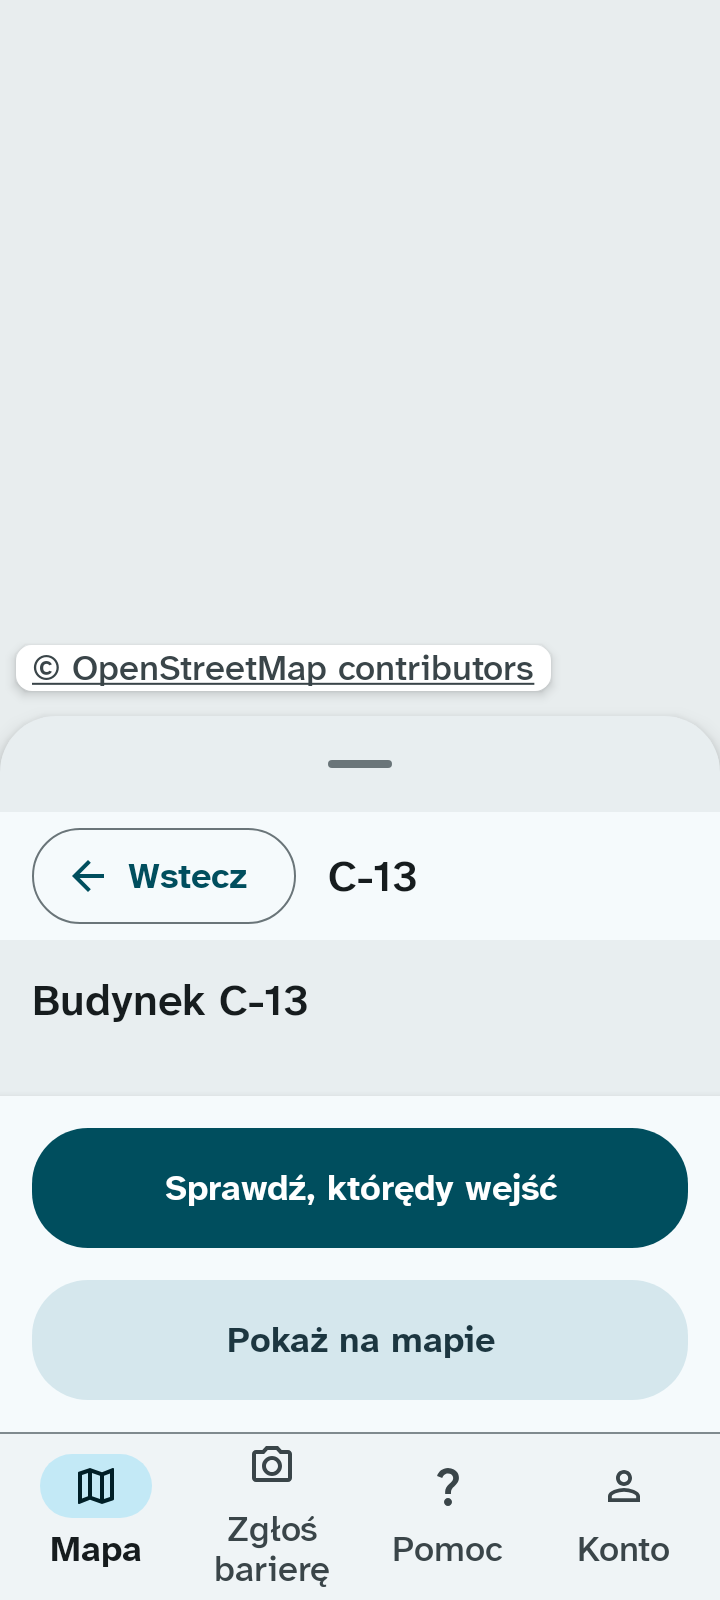
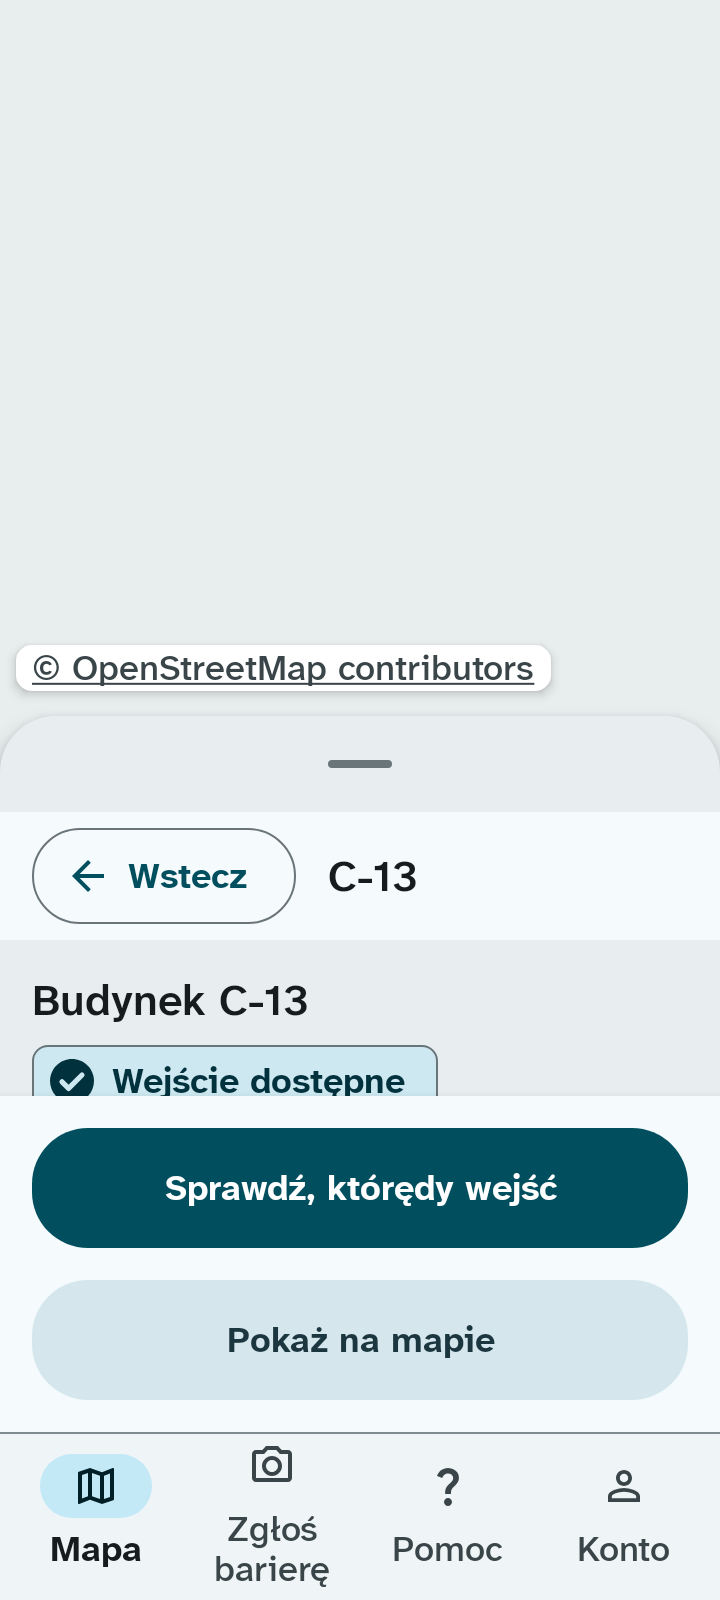
feat(map): wiersz o wejściach pod nagłówkiem karty budynku (#160)
* test(map): wiersz o wejściach pod nagłówkiem karty budynku

* feat(map): wiersz o wejściach pod nagłówkiem karty budynku

* test(map): stan sieci i nazwane argumenty w teście wiersza o wejściach

Changed region(s): [[0.0306, 0.6562, 0.6111, 0.6875]]

diff --git a/android/feature/map/src/test/kotlin/io/github/dostepnykampus/feature/map/EntranceRowTest.kt b/android/feature/map/src/test/kotlin/io/github/dostepnykampus/feature/map/EntranceRowTest.kt
@@ -1,0 +1,97 @@
+/*
+ * Dostępny Kampus
+ * Author: Vladyslav Yevkov
+ * Copyright (c) 2026 Vladyslav Yevkov, Myroslav Hryniuka, Yevhenii Lukianenko
+ */
+package io.github.dostepnykampus.feature.map
+
+import androidx.activity.ComponentActivity
+import androidx.compose.runtime.mutableStateOf
+import androidx.compose.runtime.remember
+import androidx.compose.ui.test.getUnclippedBoundsInRoot
+import androidx.compose.ui.test.hasText
+import androidx.compose.ui.test.junit4.v2.createAndroidComposeRule
+import androidx.compose.ui.test.onNodeWithText
+import io.github.dostepnykampus.core.data.buildings.BuildingCatalogRepository
+import io.github.dostepnykampus.core.designsystem.DostepnyKampusTheme
+import kotlinx.coroutines.flow.flowOf
+import org.junit.Assert.assertTrue
+import org.junit.Rule
+import org.junit.Test
+import org.junit.runner.RunWith
+import org.robolectric.RobolectricTestRunner
+import org.robolectric.annotation.Config
+import kotlin.coroutines.EmptyCoroutineContext
+
+private val ROWS = listOf("Wejście dostępne", "Brak wejścia dostępnego", "Brak danych o wejściach")
+
+/** Wiersz o wejściach na V2 Karta budynku (US2.8, US3.1). */
+@RunWith(RobolectricTestRunner::class)
+@Config(qualifiers = "w360dp-h800dp")
+class EntranceRowTest {
+    @get:Rule
+    val compose = createAndroidComposeRule<ComponentActivity>()
+
+    // Wiersz: V2, wiersz o wejściach pod nagłówkiem, nad grupą „Wejścia”, słowami: „Wejście dostępne”, „Brak
+    //   wejścia dostępnego”, gdy każde „Niedostępne”, „Brak danych o wejściach”, gdy żadne nie jest „Dostępne”,
+    //   a choć jedno ma „Brak danych”, US2.8, US2.1, US3.1, NFR-21.
+    @Test
+    fun us2_8_row_says_entrance_state() {
+        val shown = mutableStateOf("A-1")
+        compose.setContent {
+            val symbol = shown.value
+            val viewModel =
+                remember(symbol) {
+                    BuildingCardViewModel(symbol = symbol, repository = repository, networkStatus = { flowOf(true) })
+                }
+            DostepnyKampusTheme {
+                BuildingCardScreen(
+                    symbol = symbol,
+                    onCheckEntrances = {},
+                    onShowOnMap = {},
+                    onBack = {},
+                    viewModel = viewModel,
+                )
+            }
+        }
+        listOf("A-1" to ROWS[0], "B-4" to ROWS[1], "C-13" to ROWS[2]).forEach { (symbol, row) ->
+            shown.value = symbol
+            compose.waitUntil { compose.onAllNodes(hasText("Budynek $symbol")).fetchSemanticsNodes().isNotEmpty() }
+            val tops =
+                listOf("Budynek $symbol", row, "Wejścia").map {
+                    compose.onNodeWithText(it).getUnclippedBoundsInRoot().top
+                }
+            assertTrue("$symbol: nagłówek, „$row”, „Wejścia” od góry, a są na $tops", tops == tops.sorted())
+            (ROWS - row).forEach { compose.onNodeWithText(it).assertDoesNotExist() }
+        }
+    }
+
+    private companion object {
+        val repository =
+            BuildingCatalogRepository(EmptyCoroutineContext) {
+                listOf(
+                    building(symbol = "A-1"),
+                    entrance(symbol = "A-1", tags = """"wheelchair":"no""""),
+                    entrance(symbol = "A-1", tags = """"wheelchair":"yes""""),
+                    building(symbol = "B-4"),
+                    entrance(symbol = "B-4", tags = """"wheelchair":"no""""),
+                    building(symbol = "C-13"),
+                    entrance(symbol = "C-13", tags = """"wheelchair":"no""""),
+                    entrance(symbol = "C-13", tags = """"ref":"Brama""""),
+                ).joinToString(
+                    separator = ",",
+                    prefix = """{"type":"FeatureCollection","attribution":"©","features":[""",
+                    postfix = "]}",
+                )
+            }
+
+        fun building(symbol: String): String =
+            """{"type":"Feature","properties":{"kind":"building","symbols":["$symbol"],"osm_id":"way/$symbol"},""" +
+                """"geometry":{"type":"Polygon","coordinates":[[[0,0],[1,0],[1,1],[0,0]]]}}"""
+
+        fun entrance(symbol: String, tags: String): String =
+            """{"type":"Feature","properties":{"kind":"entrance","symbols":["$symbol"],""" +
+                """"osm_id":"node/$symbol-${tags.hashCode()}","entrance":"yes",$tags},""" +
+                """"geometry":{"type":"Point","coordinates":[0,0]}}"""
+    }
+}

diff --git a/android/feature/map/src/main/kotlin/io/github/dostepnykampus/feature/map/BuildingCardScreen.kt b/android/feature/map/src/main/kotlin/io/github/dostepnykampus/feature/map/BuildingCardScreen.kt
@@ -33,11 +33,13 @@ import io.github.dostepnykampus.core.designsystem.PinnedActionBar
 import io.github.dostepnykampus.core.designsystem.PinnedButton
 import io.github.dostepnykampus.core.designsystem.PinnedButtonKind
 import io.github.dostepnykampus.core.designsystem.Typografia
+import io.github.dostepnykampus.core.model.EntranceMarking
 
 private const val LARGE_FONT_SCALE = 1.5f
 
 /**
- * V2 Karta budynku (US2, BR-25): symbol, nazwa, wejścia z oznaczeniem tekstem i ikoną, zalecane pierwsze.
+ * V2 Karta budynku (US2, BR-25): symbol, nazwa, wiersz o wejściach (US2.8), wejścia z oznaczeniem tekstem
+ * i ikoną, zalecane pierwsze.
  * Karta nic nie mówi o barierach, bo aplikacja nie ma jeszcze ich źródła (US2.7). Czynności: „Sprawdź,
  * którędy wejść” i „Pokaż na mapie”. Przy skali czcionki co najmniej 1,5 czynności stoją w treści (reguła 10).
  * Nieznany symbol: „budynku nie ma w telefonie” (US2.7). Bez internetu nad treścią stoi [OfflineLine] jak na V1,
@@ -76,7 +78,10 @@ fun BuildingCardScreen(
             verticalArrangement = Arrangement.spacedBy(Odstepy.s),
         ) {
             OfflineWhen(isOnline = isOnline)
-            if (card is BuildingCardUiState.Ready) BuildingName(symbol = symbol, name = card.name)
+            if (card is BuildingCardUiState.Ready) {
+                BuildingName(symbol = symbol, name = card.name)
+                EntranceSummaryRow(entranceSummary(card.entrances))
+            }
             if (isLargeFont && card is BuildingCardUiState.Ready) actions(true)
             when (card) {
                 BuildingCardUiState.Loading -> Unit
@@ -102,6 +107,21 @@ private fun BuildingName(symbol: String, name: String?) {
         modifier = Modifier.semantics { contentDescription = spoken },
         style = MaterialTheme.typography.titleLarge,
     )
+}
+
+/**
+ * Wiersz o wejściach pod nagłówkiem (US2.8, NFR-21): słowo i ikona oznaczenia jak w [MarkingChip] (kształt, nie
+ * para zielony/czerwony).
+ */
+@Composable
+internal fun EntranceSummaryRow(summary: EntranceSummary) {
+    val (marking, word) =
+        when (summary) {
+            EntranceSummary.Accessible -> EntranceMarking.ACCESSIBLE to R.string.karta_wiersz_dostepne
+            EntranceSummary.NoAccessible -> EntranceMarking.INACCESSIBLE to R.string.karta_wiersz_niedostepne
+            EntranceSummary.NoData -> EntranceMarking.NO_DATA to R.string.karta_wiersz_brak_danych
+        }
+    MarkingChip(marking = marking, label = stringResource(word))
 }
 
 @Composable

diff --git a/android/feature/map/src/test/kotlin/io/github/dostepnykampus/feature/map/EntranceSummaryTest.kt b/android/feature/map/src/test/kotlin/io/github/dostepnykampus/feature/map/EntranceSummaryTest.kt
@@ -1,0 +1,63 @@
+/*
+ * Dostępny Kampus
+ * Author: Vladyslav Yevkov
+ * Copyright (c) 2026 Vladyslav Yevkov, Myroslav Hryniuka, Yevhenii Lukianenko
+ */
+package io.github.dostepnykampus.feature.map
+
+import io.github.dostepnykampus.core.model.Entrance
+import io.github.dostepnykampus.core.model.EntranceMarking
+import io.github.dostepnykampus.core.model.EntranceMarking.ACCESSIBLE
+import io.github.dostepnykampus.core.model.EntranceMarking.INACCESSIBLE
+import io.github.dostepnykampus.core.model.EntranceMarking.NO_DATA
+import io.github.dostepnykampus.core.model.GeoPoint
+import org.junit.jupiter.api.Assertions.assertEquals
+import org.junit.jupiter.api.Test
+
+/** Wiersz o wejściach pod nagłówkiem karty budynku (US2.8, US2.1, US3.1, US17.1). */
+class EntranceSummaryTest {
+    @Test
+    fun us2_8_one_accessible_is_enough() {
+        assertEquals(EntranceSummary.Accessible, summary(INACCESSIBLE, NO_DATA, ACCESSIBLE))
+    }
+
+    @Test
+    fun us2_8_all_inaccessible_none() {
+        assertEquals(EntranceSummary.NoAccessible, summary(INACCESSIBLE, INACCESSIBLE))
+    }
+
+    @Test
+    fun us2_8_empty_is_no_data() {
+        assertEquals(EntranceSummary.NoData, summary())
+    }
+
+    @Test
+    fun us2_8_mixed_unknown_no_data() {
+        assertEquals(EntranceSummary.NoData, summary(INACCESSIBLE, NO_DATA))
+    }
+
+    @Test
+    fun us2_8_all_unknown_is_no_data() {
+        assertEquals(EntranceSummary.NoData, summary(NO_DATA, NO_DATA))
+    }
+
+    @Test
+    fun us2_8_service_only_is_no_data() {
+        val service = listOf(entrance(ACCESSIBLE, type = "emergency"), entrance(ACCESSIBLE, type = "exit"))
+        assertEquals(EntranceSummary.NoData, entranceSummary(orderedEntrances(service)))
+    }
+
+    private fun summary(vararg markings: EntranceMarking): EntranceSummary =
+        entranceSummary(orderedEntrances(markings.map { entrance(it) }))
+
+    private fun entrance(marking: EntranceMarking, type: String = "yes") =
+        Entrance(
+            id = "${marking.name}-$type",
+            buildingSymbol = "A-1",
+            name = null,
+            isMain = false,
+            type = type,
+            location = GeoPoint(longitude = 0.0, latitude = 0.0),
+            marking = marking,
+        )
+}

diff --git a/android/core/designsystem/src/main/kotlin/io/github/dostepnykampus/core/designsystem/MarkingChip.kt b/android/core/designsystem/src/main/kotlin/io/github/dostepnykampus/core/designsystem/MarkingChip.kt
@@ -76,9 +76,13 @@ private enum class MarkingLook(
  * kolorze `outline`, zaokrąglenie [Zaokraglenia.standard], napis `labelLarge` z [Typografia.wyroznienieWaga],
  * ikona [Ikony.rozmiar] skalowana jak tekst w sp (NFR-20). Wysokość co najmniej 36 dp jak w makietach V2 i V3;
  * oznaczenie nie jest celem dotyku. Ikona jest ozdobna: TalkBack czyta słowo.
+ *
+ * @param marking oznaczenie, które wyznacza kształt ikony i barwy
+ * @param modifier modyfikator zewnętrzny
+ * @param label własne słowo obok ikony; `null` daje słowo ze słownika oznaczenia
  */
 @Composable
-fun MarkingChip(marking: EntranceMarking, modifier: Modifier = Modifier) {
+fun MarkingChip(marking: EntranceMarking, modifier: Modifier = Modifier, label: String? = null) {
     val look =
         when (marking) {
             EntranceMarking.ACCESSIBLE -> MarkingLook.ACCESSIBLE
@@ -103,7 +107,7 @@ fun MarkingChip(marking: EntranceMarking, modifier: Modifier = Modifier) {
         ) {
             MarkingIcon(look = look, shapeColor = content, markColor = container)
             Text(
-                text = stringResource(look.word),
+                text = label ?: stringResource(look.word),
                 style = MaterialTheme.typography.labelLarge,
                 fontWeight = Typografia.wyroznienieWaga,
             )

diff --git a/android/feature/map/src/main/kotlin/io/github/dostepnykampus/feature/map/BuildingCard.kt b/android/feature/map/src/main/kotlin/io/github/dostepnykampus/feature/map/BuildingCard.kt
@@ -78,6 +78,26 @@ private fun missingOrNone(entrances: List<OrderedEntrance>): VisitAnswer {
     return if (missing == 0) VisitAnswer.NoAccessible else VisitAnswer.Unknown(missing, entrances.size)
 }
 
+/** Wiersz o wejściach pod nagłówkiem karty budynku (US2.8, US2.1, US3.1). */
+enum class EntranceSummary {
+    /** „Wejście dostępne”: choć jedno wejście odwiedzających jest „dostępne”. */
+    Accessible,
+
+    /** „Brak wejścia dostępnego”: lista niepusta, a każde wejście jest „niedostępne”. */
+    NoAccessible,
+
+    /** „Brak danych o wejściach”: lista pusta albo żadne nie jest „dostępne”, a choć jedno ma „brak danych”. */
+    NoData,
+}
+
+/** Wiersz o wejściach dla listy [entrances] ułożonej przez [orderedEntrances] (US2.8, US17.1). */
+fun entranceSummary(entrances: List<OrderedEntrance>): EntranceSummary =
+    when (visitAnswer(entrances)) {
+        is VisitAnswer.Accessible -> EntranceSummary.Accessible
+        VisitAnswer.NoAccessible -> EntranceSummary.NoAccessible
+        VisitAnswer.NoData, is VisitAnswer.Unknown -> EntranceSummary.NoData
+    }
+
 /**
  * Stan karty budynku [symbol] z katalogu (US2, US2.7). Brak symbolu w katalogu to „budynku nie ma w telefonie”.
  */
